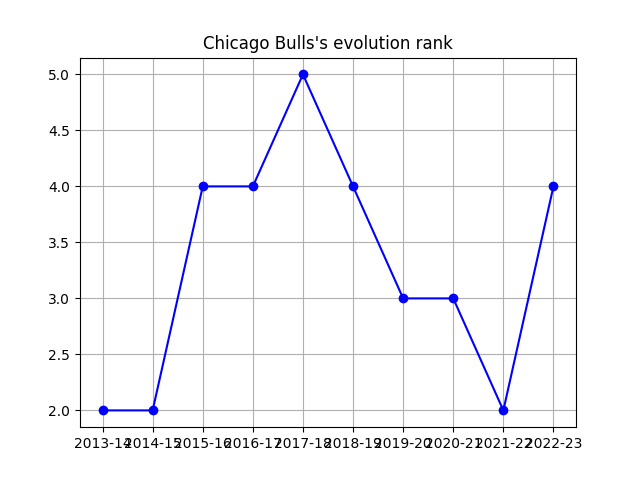
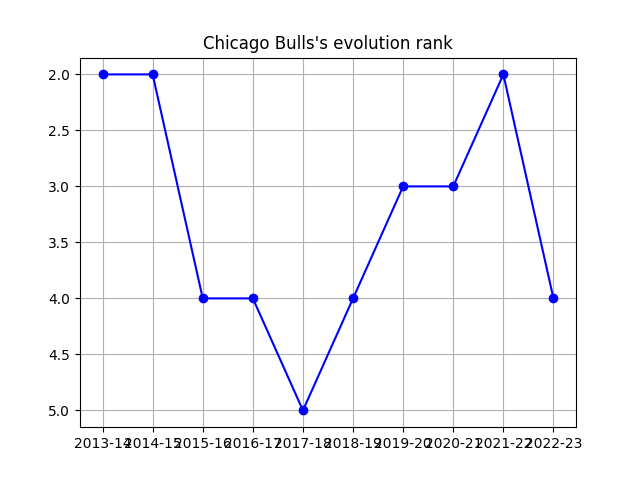
Better reading

diff --git a/Plot/team_plot.py b/Plot/team_plot.py
@@ -28,6 +28,7 @@ def plot_evolution(team):
     plt.figure()
     plt.plot(season_list, rank_list, "-", color="blue", marker='o')
     plt.grid(True)
+    plt.gca().invert_yaxis()
     plt.title(team + "'s evolution rank")
     plt.savefig("team_plot_images/" + team + " evolution rank.png") # Save the image in png
 
@@ -140,15 +141,15 @@ def plot_spider(team):
     fig.write_image("team_plot_images/" + team + " defensive spider plot.png") # Savce image in png
 
 # Test
-test = 0
+test = 1
 if test == 1 :
     team1 = "Cleveland Cavaliers"
     team2 = "Chicago Bulls"
     plot_evolution(team1)
     plot_evolution(team2)
-    plot_histogram(team1)
+    '''plot_histogram(team1)
     plot_histogram(team2)
     plot_correlation(team1)
     plot_correlation(team2)
     plot_spider(team1)
-    plot_spider(team2)
+    plot_spider(team2)'''
